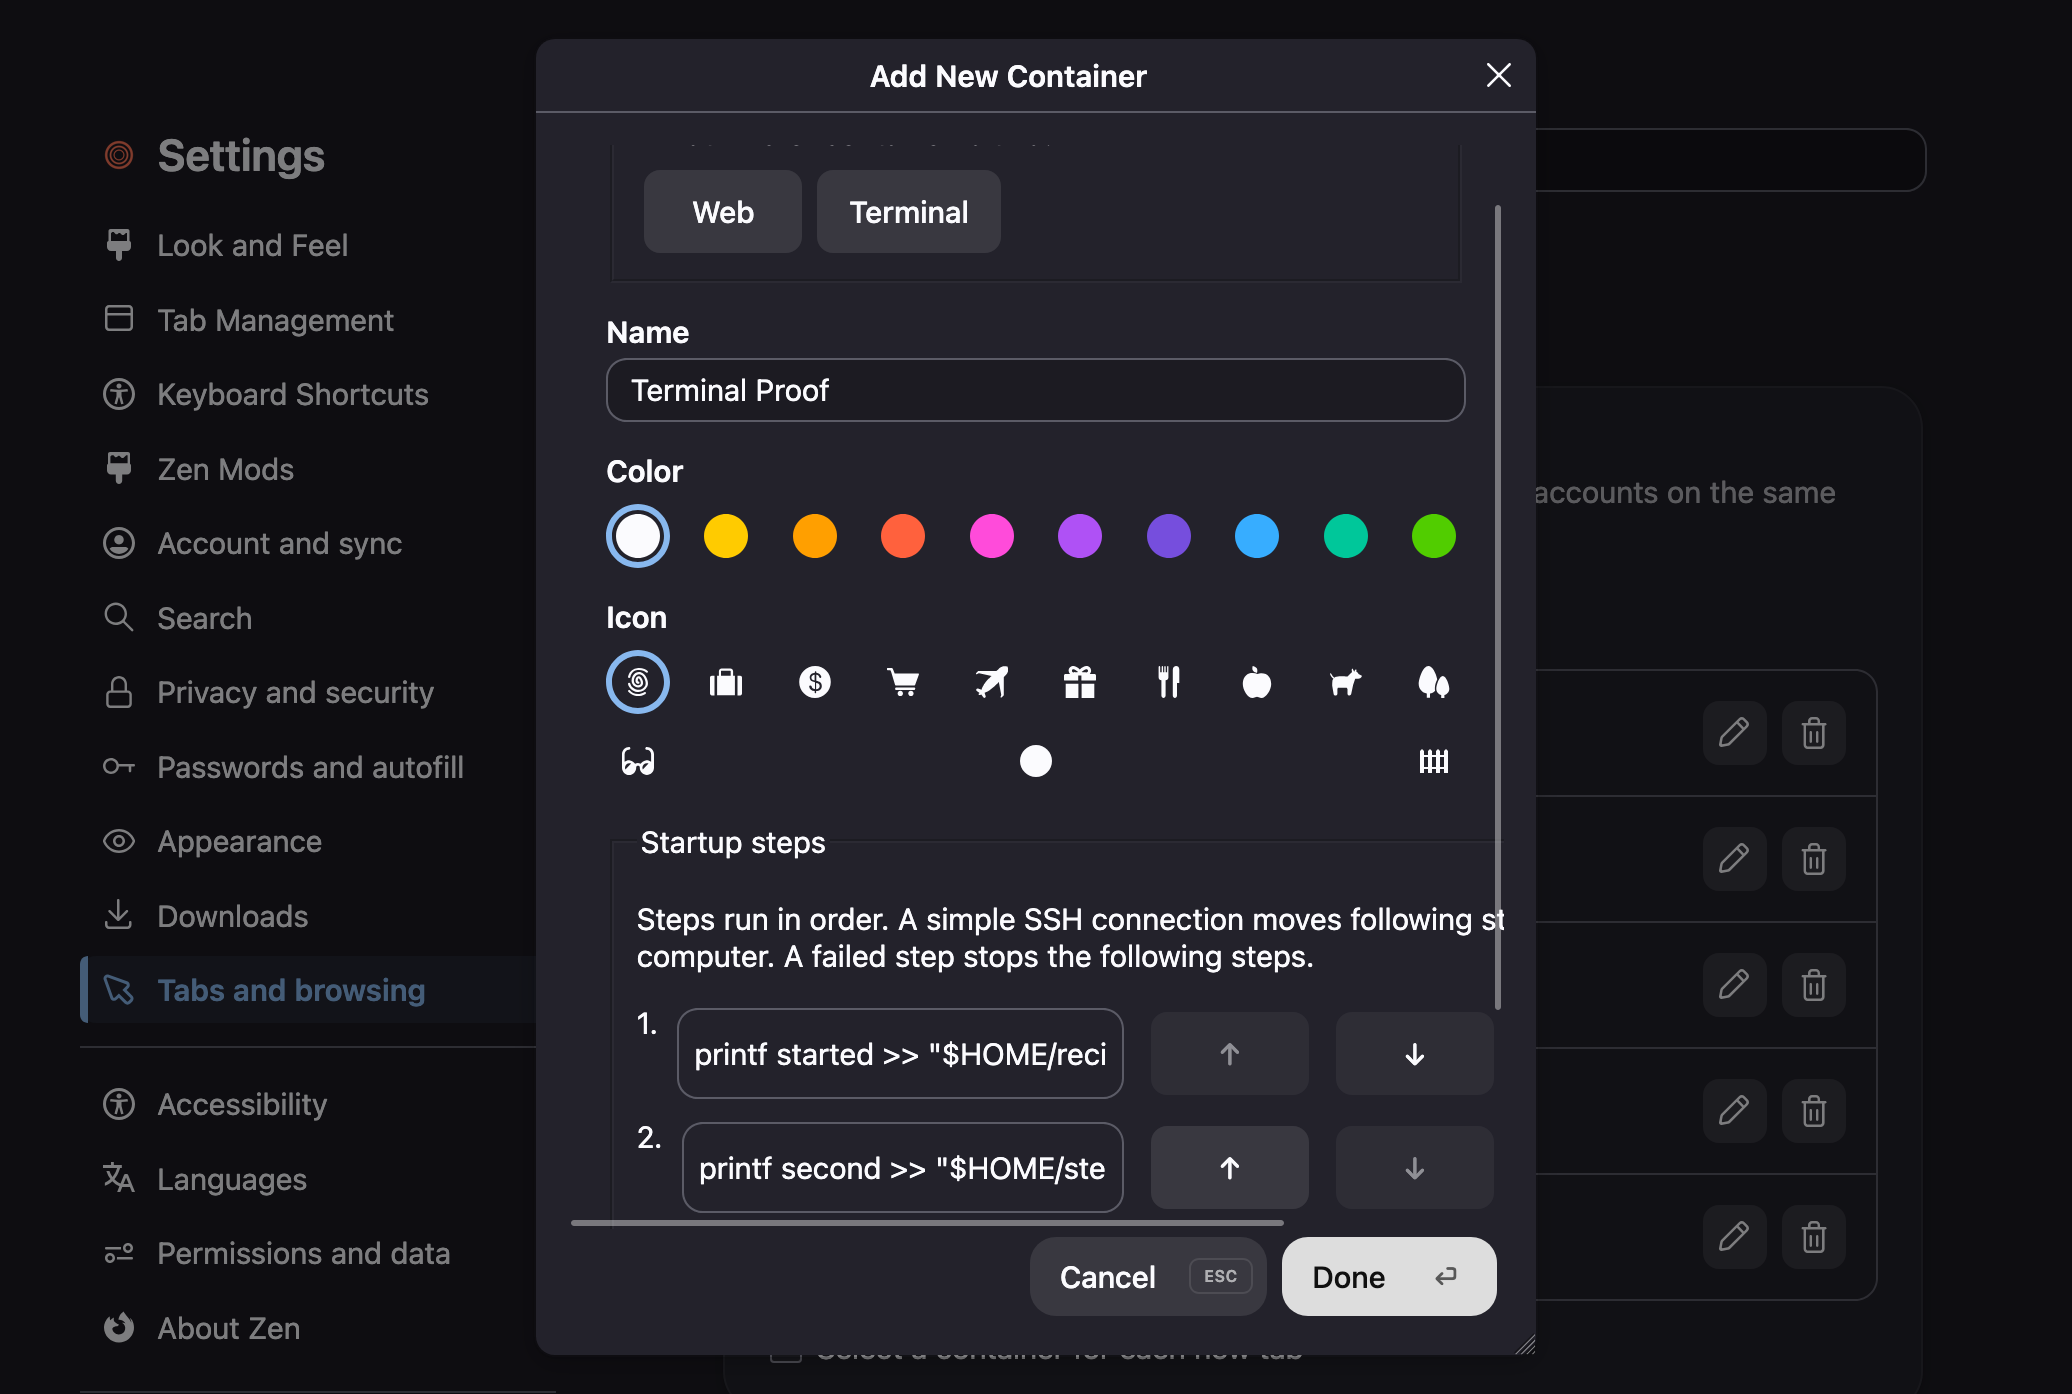
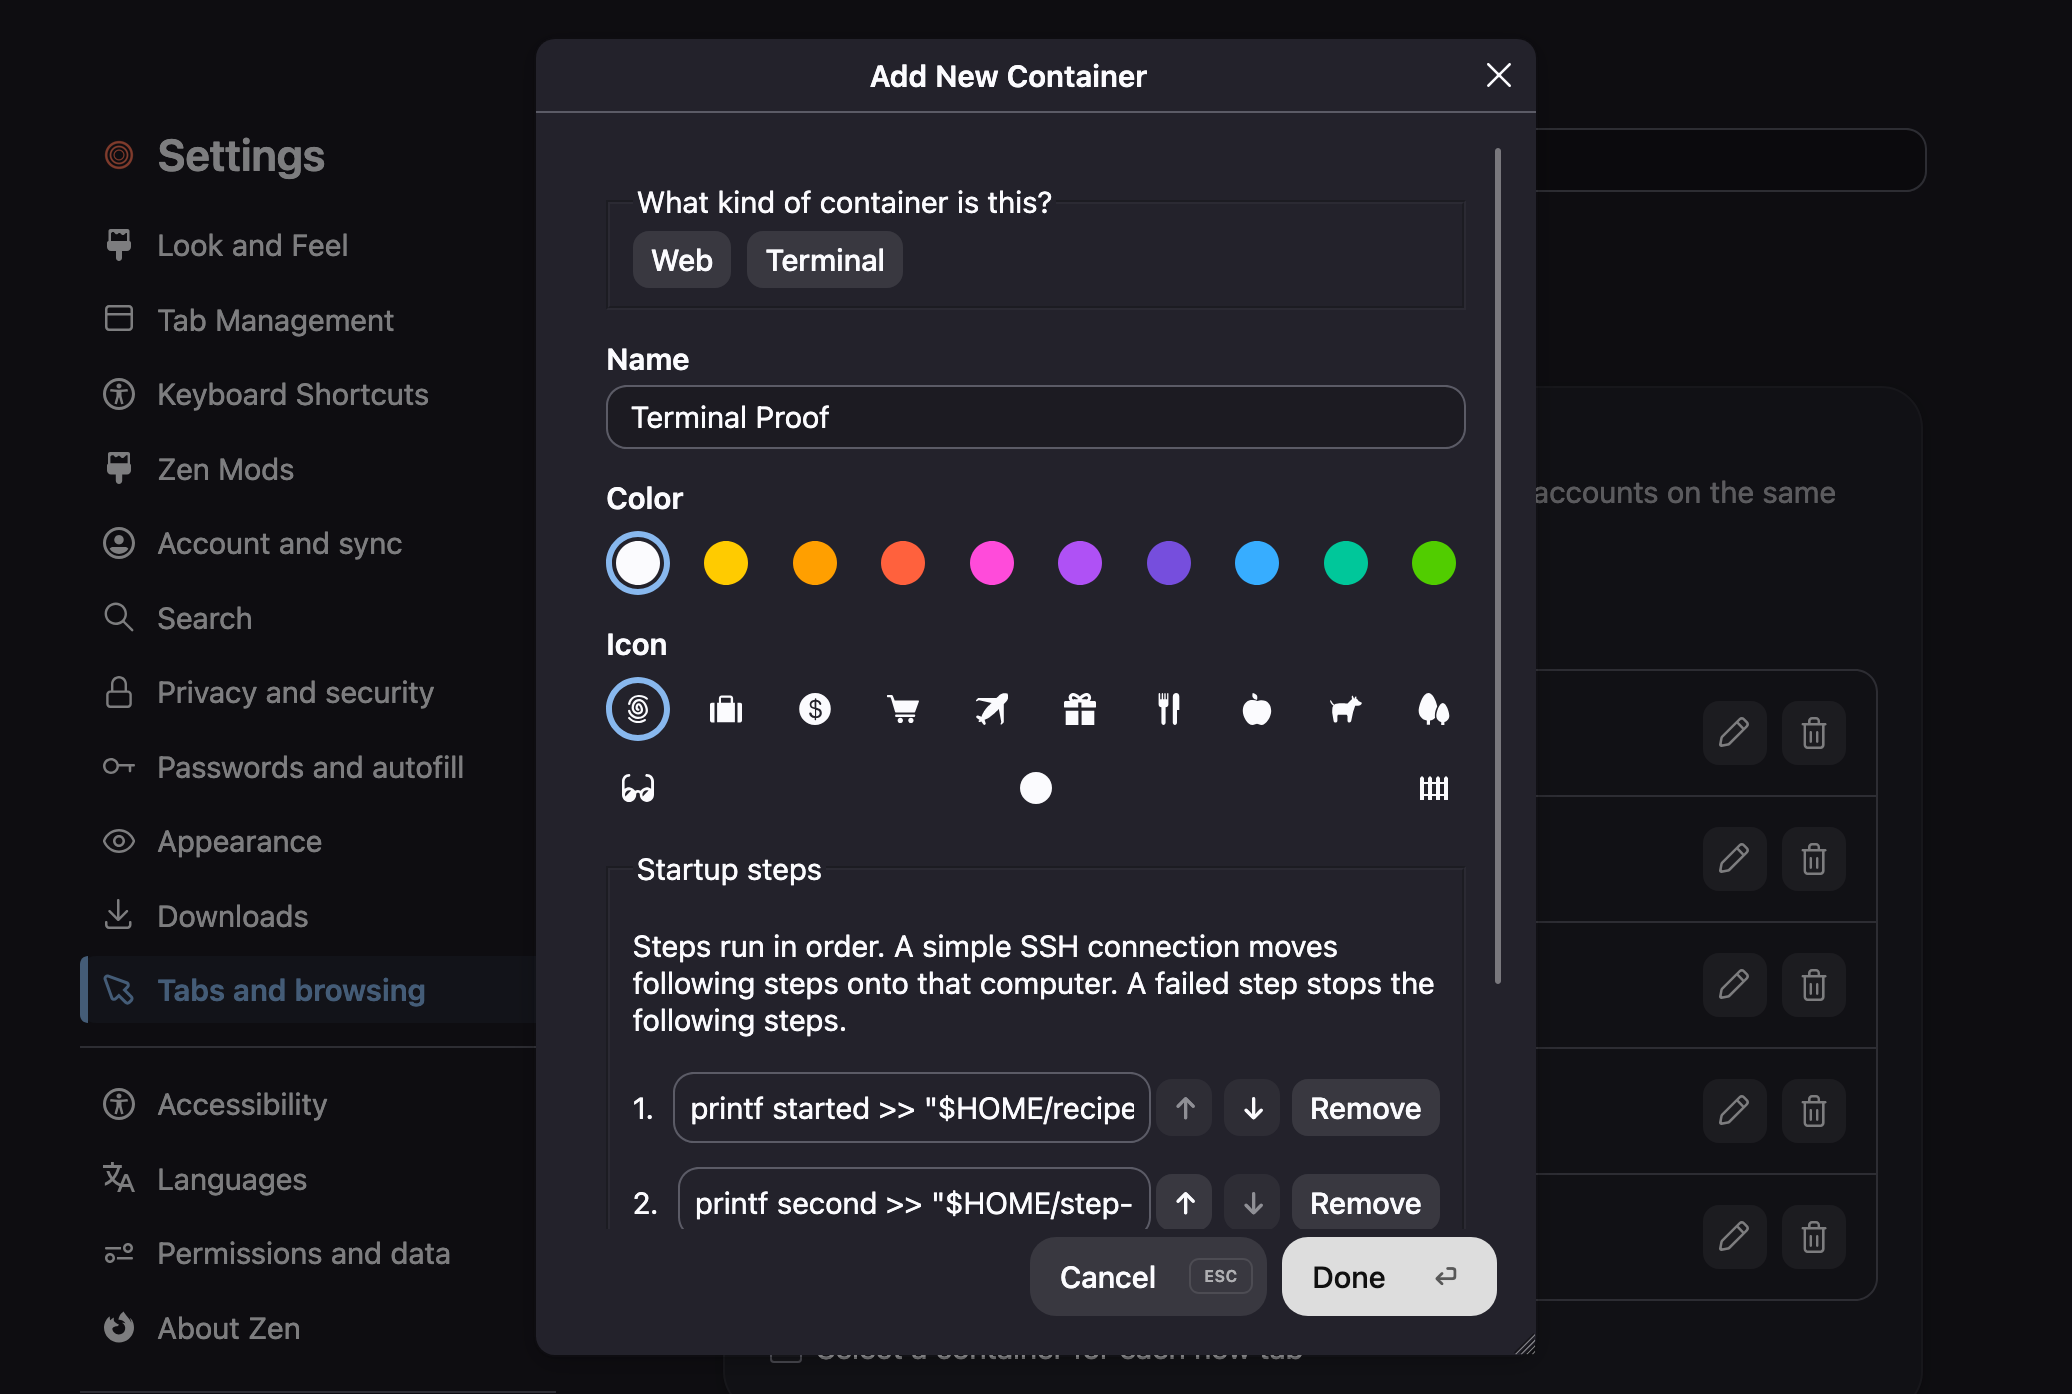
Fix native editor layout and prove background restoration and terminal access isolation

diff --git a/scripts/terminal-tabs/test-terminal-macos-app.py b/scripts/terminal-tabs/test-terminal-macos-app.py
@@ -53,6 +53,9 @@ try:
   record('personal app-data root is isolated from stock Zen')
  assert js('return ChromeUtils.importESModule("moz-src:///toolkit/components/contextualidentity/ContextualIdentityService.sys.mjs").ContextualIdentityService.getPublicIdentities().some(x=>x.name==="Terminal");')
  record('plain Terminal setup is available on first launch')
+ security=js('const manager=Services.scriptSecurityManager;const uri=Services.io.newURI("chrome://browser/content/zen-terminal/terminal.xhtml");manager.checkLoadURIWithPrincipal(manager.getSystemPrincipal(),uri,Ci.nsIScriptSecurityManager.STANDARD);try{manager.checkLoadURIWithPrincipal(manager.createContentPrincipal(Services.io.newURI("https://example.invalid"),{}),uri,Ci.nsIScriptSecurityManager.STANDARD);return false;}catch(error){return error.name;}')
+ assert security=='NS_ERROR_DOM_BAD_URI',security
+ record('ordinary websites cannot load the privileged terminal page',security)
  # Open Settings using browser navigation, then drive its native container form.
  js('gBrowser.selectedTab = gBrowser.addTab("about:preferences#containers", {triggeringPrincipal:Services.scriptSecurityManager.getSystemPrincipal()});')
  m.set_context('content')
@@ -76,6 +79,7 @@ try:
  inputs[1].send_keys('printf never')
  m.execute_script('document.querySelector("dialog").getButton("accept").click();')
  wait(lambda:m.find_element('id','zen-terminal-recipe-error').is_displayed(),'invalid recipe feedback')
+ assert m.execute_script('return ChromeUtils.importESModule("moz-src:///toolkit/components/contextualidentity/ContextualIdentityService.sys.mjs").ContextualIdentityService.getPublicIdentities().every(identity=>identity.name!=="Terminal Proof");')
  record('invalid remote recipe stays in dialog without saving')
  inputs=m.find_elements('css selector','#zen-terminal-recipe-steps input')
  inputs[0].clear();inputs[0].send_keys('printf started >> "$HOME/recipe-count"')
@@ -83,7 +87,12 @@ try:
  # Move second step up and down through real buttons; order must return intact.
  m.find_elements('css selector','#zen-terminal-recipe-steps button')[3].click()
  m.find_elements('css selector','#zen-terminal-recipe-steps button')[1].click()
+ assert m.execute_script('return [...document.querySelectorAll("#zen-terminal-recipe-steps input")].map(input=>input.value);') == ['printf started >> "$HOME/recipe-count"', 'printf second >> "$HOME/step-order"']
  record('ordered step editor supports reordering')
+ # Functional controls must also fit the real native dialog, without sideways scrolling.
+ layout=m.execute_script('return [...document.querySelectorAll("#containerEditorHost, .container-editor, #zen-terminal-container-fields, #zen-terminal-recipe-steps")].map(el=>({name:el.id||el.className,width:el.clientWidth,scroll:el.scrollWidth}));')
+ assert all(item['scroll'] <= item['width'] + 1 for item in layout), layout
+ record('native step editor fits without horizontal scrolling')
  # Real rendered dialog screenshot.
  (proof/(args.label+'-container-dialog.png')).write_bytes(m.screenshot(format='binary'))
  m.execute_script('document.querySelector("dialog").getButton("accept").click();')
@@ -130,6 +139,16 @@ try:
  record('real Mac window resize changes the shell dimensions')
  assert (home/'step-order').read_text()=='second' 
  m.set_context('chrome');screen('terminal')
+ # Duplicating a terminal creates another viewer, not another startup process.
+ js('window.__zenProofOriginalTab=gBrowser.selectedTab;gBrowser.selectedTab=gBrowser.duplicateTab(gBrowser.selectedTab,true);')
+ wait(lambda:terminal_status() and 'reconnected' in terminal_status(),'duplicate terminal viewer')
+ assert js('return gBrowser.selectedTab.getAttribute("zen-terminal-session-id");')==sid
+ js('gBrowser.removeTab(window.__zenProofOriginalTab,{animate:false});')
+ wait(lambda:js('return ![...gBrowser.tabs].includes(window.__zenProofOriginalTab);'),'original viewer closes')
+ time.sleep(.2)
+ assert tmux('display-message','-p','-t',name,'#{pane_pid}').stdout.strip()==pid
+ assert (home/'recipe-count').read_text()=='started'
+ record('closing one duplicated terminal preserves its other viewer and process')
  # Use Zen's own static-label setter, then prove its saved value survives reload/restart.
  js('const tab=gBrowser.selectedTab;tab.zenStaticLabel="My renamed terminal";tab._zenChangeLabelFlag=true;gBrowser._setTabLabel(tab,"My renamed terminal",{_zenChangeLabelFlag:true});delete tab._zenChangeLabelFlag;')
  js('gBrowser.selectedBrowser.reload();')
@@ -137,11 +156,16 @@ try:
  assert tmux('display-message','-p','-t',name,'#{pane_pid}').stdout.strip()==pid
  assert (home/'recipe-count').read_text()=='started'
  record('reload keeps same process and does not rerun startup')
+ # Keep the terminal in the background so its lazy restoration is tested.
+ js('gBrowser.selectedTab=gBrowser.addTab("about:blank",{triggeringPrincipal:Services.scriptSecurityManager.getSystemPrincipal()});')
  # Quit the browser normally; relaunch the same isolated profile.
  js("Services.startup.quit(Ci.nsIAppStartup.eAttemptQuit); return true;");m=None;process.wait(timeout=20)
  assert tmux('has-session','-t','='+name).returncode==0
  start()
- tab=wait(lambda:js('const tab=[...gBrowser.tabs].find(t=>t.linkedBrowser.currentURI.spec.includes(arguments[0]));if(tab){gBrowser.selectedTab=tab;return true;}return false;',[sid]),'restored terminal tab')
+ background=wait(lambda:js('const tab=[...gBrowser.tabs].find(t=>{try{return SessionStore.getTabState(t).includes(arguments[0]);}catch(_){return false;}});if(!tab||!tab.hasAttribute("zen-terminal-tab"))return null;return {selected:tab===gBrowser.selectedTab,label:tab.label,pending:tab.hasAttribute("pending")};',[sid]),'background terminal marked before selection')
+ assert background['selected'] is False and background['label']=='My renamed terminal',background
+ record('background restored terminal is marked and renamed before selection',background)
+ js('const tab=[...gBrowser.tabs].find(t=>{try{return SessionStore.getTabState(t).includes(arguments[0]);}catch(_){return false;}});gBrowser.selectedTab=tab;',[sid])
  wait(lambda:terminal_status() and 'reconnected' in terminal_status(),'quit/relaunch reconnect')
  assert tmux('display-message','-p','-t',name,'#{pane_pid}').stdout.strip()==pid
  assert (home/'recipe-count').read_text()=='started'

diff --git a/docs/zen-terminal-build-ledger.md b/docs/zen-terminal-build-ledger.md
@@ -109,3 +109,6 @@ C10–C13 / ZT-RELEASE, ZT-MIGRATE: preserved prior branch6fd14b2, created separ
 
 ### Stable native Mac integration proved, installer still pending
 Official Zen1.22b engine with strict source overlay passed14 actual Mac checks, including native Settings, repeated Unicode, Ctrl-C, vi, resizing, reload/quit persistence and explicit close. Its ad-hoc test signature preserves ordinary browser capabilities but removes official Apple-team-only entitlements; never impersonates the upstream signing team. This remains overlay proof, not installer acceptance. Verified development DMG signing/seal and refusal to overwrite using a tiny synthetic app. Migration now25 tests including final installation-hash default selection. Added upstream MIT notice for vendored xterm6.0.0/addon-fit0.11.0 to the shipped assets. Cloud34167253933 intentionally cancelled before compile to include optimized-ZIP inspection and Finder metadata fixes.
+
+### Native visual and safety follow-up
+Fixed shared Settings editor horizontal overflow exposed by screenshots; helper text wraps, action buttons remain visible, command input shrinks correctly. All20 native stable-overlay checks now pass, including geometry, ordinary website rejection, duplicate-close preserving other view, background lazy restoration with rename, Codex/Claude version commands and previous interactive tests. Source patches still apply cleanly and9 Settings behavior tests pass. Cloud34167720005 cancelled before compile so this final visual correction is included. No user data touched. Final installer remains pending.
